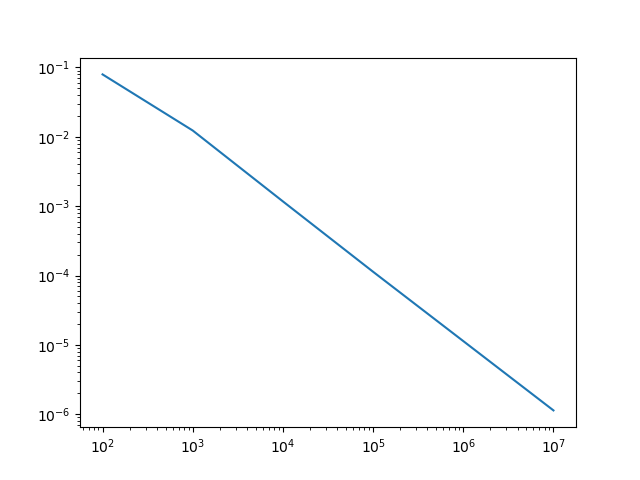
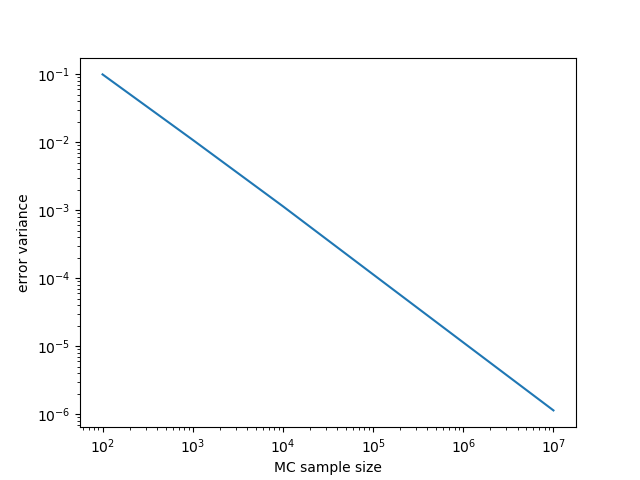
Finish HW3

diff --git a/hw3/h3_sol.tex b/hw3/h3_sol.tex
@@ -17,6 +17,11 @@
 \usepackage[noabbrev]{cleveref}
 \usepackage{graphicx}
 \usepackage{listings}
+\lstset{language=Python,
+  frame=single,
+  breaklines=true,
+  captionpos=b
+}
 
 \newcommand*{\E}{\mathbb{E}}
 \newcommand*{\EV}[1]{\E\left[{#1}\right]}
@@ -56,23 +61,33 @@
       \mathcal{N}\left(0, \frac{\sigma_g^2}{N}\right) \]
 
     \[ \sigma_g^2 = \EV{g^2} - \EV{g}^2 = \EV{\left( g - \EV{g} \right)^2}\]
-    sample variance:
+    Since the variance is not known, I fall back to the sample variance:
     \[ \hat{\sigma_g}^2 = \frac{1}{N - 1} \sum_{i=1}^N \left( \bar{g_i}  -
         \frac{\sum^N_{j=1}  \bar{g}_j}{N} \right)^2 \]
 
-    So for $f$ the variance of its approximation $\bar{f}$ can be computed as
+    For $f$ the variance of its approximation $\bar{f}$ can be computed as
     \[ \Var{\bar{f}} = e^{-2rT} \Var{\bar{g}}\]
     With the central limit theorem the error $\epsilon_N$ tends in distribution
     to:
     \[ \sqrt{N} \epsilon_N \rightharpoonup \mathcal{N}\left( 0, e^{-2rT} \hat{\sigma_g}^2 \right)\]
 
+    In \cref{fig:error_var} the variance of the error is plotted against the
+    Monte Carlo sample size. A 
+
+    The price computed with the biggest sample size of $N = \num{e7}$ is
+    \[ f(0, S_0) = \num{2.32} \]
+
+    The code can be found in the code appendix in listing~\ref{lstex1a}.
+
   \item
-    Compute the sensitivity
+    The sensitivity computed via the following method
     \[ \Delta \equiv \frac{\partial{}f(0,s)}{\partial{}s} \approx
       \frac{f(0,s+\Delta{}s) - f(0,s)}{\Delta{}s}\]
+    is plotted in \cref{fig:delta}.
+    The code can be found again in the code appendix in listing~\ref{lstex1b}.
 
-    Plotted in \cref{fig:delta}.
-    Better methods maybe adaptive?
+    A better method may be to use the Black-Scholes equation and analyze the
+    dependency of the solution on the start value in that PDE.
 
 \begin{figure}[h]
     \begin{minipage}[b]{.5\linewidth}
@@ -84,7 +99,7 @@
     \begin{minipage}[b]{.5\linewidth}
       \centering
       \includegraphics[width=\linewidth]{delta_f.png}
-      \caption{Delta}
+      \caption{Sensitivity}
       \label{fig:delta}
     \end{minipage}
 \end{figure}
@@ -124,13 +139,14 @@
   &=& e^{-\alpha t} \left( Y_0 + \left(e^{\alpha t}-1\right)\left(-2
       + \frac{0.4}{\sqrt{\alpha}}\sqrt{1-\rho^2}\right) + \int_0^t e^{\alpha s} 0.4 \sqrt{\alpha} \dW(s)\right)
     \end{IEEEeqnarray*}
-    For the expected value of $Y(t)$ I obtain:
+    Using the fact, that the expected value of the It\^{o} integral is 0, I obtain
+    the following for the expected value of $Y(t)$:
     \[ \EV{Y(t)} = e^{-\alpha t}\left(  \EV{Y_0} + \left( e^{\alpha t} -1 \right)
       \left( -2 + \frac{0.4}{\sqrt{\alpha}}\sqrt{1-\rho^2}\right)\right)
       \underset{t\rightarrow\infty}{\longrightarrow} -2 + \frac{0.4}{\sqrt{\alpha}}\sqrt{1-\rho^2}\]
-    For the variance, with $\left( e^{\alpha t} - 1 \right)\left( -2 +
-      \frac{0.4}{\sqrt{\alpha}}\sqrt{1-\rho^2} \right) = b$:
-
+    As a shorthand I use $b=\left( e^{\alpha t} - 1 \right)\left( -2 +
+      \frac{0.4}{\sqrt{\alpha}}\sqrt{1-\rho^2} \right)$ going forward.
+    To compute the variance I use the It\^{o} isometry:
     \begin{IEEEeqnarray*}{rCl}
       \Var{Y(t)} &=& \EV{Y(t)^2} - \EV{Y(t)}^2 \\
       &=& e^{-2\alpha t} \left(\EV{Y_0^2} + b^2 + \int_0^t e^{2\alpha s} 0.16
@@ -140,6 +156,7 @@
           1\right)\right) \\
       &\underset{t\rightarrow\infty}{\longrightarrow}& 0.08
     \end{IEEEeqnarray*}
+    So we see, that the variance is independent of all parameters.
 
   \item
     \[\dX = -\alpha X(t)\dt + \sqrt{\alpha} \dW(t)  \]
@@ -163,14 +180,17 @@
       \underset{t\rightarrow\infty}{\longrightarrow} \frac{1}{2}
     \end{IEEEeqnarray*}
 
-    \item Forward Euler approximation
+    \item The Forward Euler approximation for this equation is
       \[\Xb_n = X_0 + \sum_{i=0}^{n-1} -\alpha \Xb_i (t_{i+1} - t_i) +
         \sqrt{\alpha} (W_{i+1} - W_{i})  \]
-      \[\Xb_0 = X_0\]
+      Or in iterative form
       \[\Xb_i = \Xb_{i-1} - \alpha \Xb_{i-1} (t_i - t_{i-1}) + \sqrt{\alpha}
         (W_i - W_{i-1}) = \Xb_{i-1}(1-\alpha\Dt) + \sqrt{\alpha} \DW_i \]
+      Using this second form, it is easy to compute the expected value
       \[\EV{\Xb_i} = \EV{\Xb_{i-1}} (1 - \alpha \Dt) = \EV{X_0} (1-\alpha\Dt)^i
       \underset{i\rightarrow\infty}\longrightarrow 0 \]
+    To compute the variance we use $\EV{\DW_i}=0$ and $\EV{\DW_i^2}=\Dt$ and the
+    geometric series
     \begin{IEEEeqnarray*}{rCl}
       \Var{\Xb_i} &=& \EV{\Xb_i^2} - \EV{\Xb_i}^2 \\
       &=& \EV{\Xb^2_{i-1}(1-\alpha\Dt)^2 + 2 \Xb_{i-1}(1-\alpha\Dt) \sqrt{\alpha}
@@ -186,9 +206,10 @@
     \frac{\alpha\Dt}{2\alpha\Dt-(\alpha\Dt)^2} = \frac{1}{2 - \alpha\Dt}\\
     \end{IEEEeqnarray*}
 
-    \item Backward Euler approximation
+    \item The Backward Euler approximation is
       \[\Xb_n = X_0 + \sum_{i=0}^{n-1} -\alpha \Xb_{i+1} (t_{i+1} - t_i)
         + \sqrt{\alpha} (W_{i+1} - W_{i}) \]
+      and in iterative form
       \begin{IEEEeqnarray*}{rCl}
         \Xb_i &=& \Xb_{i-1} - \alpha \Xb_i (t_i - t_{i-1}) + \sqrt{\alpha}
         (W_i - W_{i-1}) \\
@@ -221,8 +242,11 @@
       &=& \frac{1}{2+\alpha\Dt}
     \end{IEEEeqnarray*}
 
-    \item Interpretation:
-      Seems like variance is better for forward Euler.
+    \item Both approximations lead to the same expected value, but differ in the
+      variance.
+      In the limit $\Dt \rightarrow 0$ the variance of both approximations
+      converge to the variance of the explicit solution.
+      The forward Euler approximation seems a bit better, due to the smaller variance.
   \end{enumerate}
 
   \item
@@ -258,31 +282,36 @@
   where $\Phi$ is the CDF of the normal distribution.
   So for the confidence interval to be \num{0.05} wide, the following sample
   size is needed
-  \[ n = \left(2\frac{1.96 \hat{\sigma}}{0.05}\right)^2 \approx \SI{543}{\kilo} \]
+  \[ n = \left(2\frac{1.96 \hat{\sigma}}{0.05}\right)^2 \approx 543\text{k} \]
 
   Since $2 \times n \times timesteps$ normally distributed random variables are
   needed, for \num{e4} timesteps this corresponds to approximately 10 billion
   random variables.
-  It took about 10 minutes on my laptop for \SI{500}{\kilo} samples and \num{e4}
+  It took about 10 minutes on my laptop for 500$k$ samples and \num{e4}
   time steps.
 
   To arrive an accuracy of $TOL=\num{5e-3}$, which corresponds to an increase of
   accuracy by a factor of 10, a factor of 100 times more samples would be needed.
-  Assuming the machine has enough memory and the computational time scales
-  lineary with the number of sampled random variables, roughly \SI{17}{\hour}
-  would be needed for this accuracy.
+  Assuming that the machine has enough memory and that the computational time scales
+  linearity with the number of sampled random variables, roughly \SI{17}{\hour}
+  would be needed to obtain this accuracy.
     
 \end{enumerate}
 
 \end{enumerate}
 
-% \section{Code Appendix}
+\section*{Code Appendix}
 
-% All code can be found online at
-% \url{https://github.com/bschwb/cmsde/tree/master/hw3}
+All code can be found online at
+\url{https://github.com/bschwb/cmsde/tree/master/hw3}
 
-% \begin{listings}
-%   \lstinputlisting{exercise2.py}
-% \end{listings}
+\lstset{caption={Code for 1a)}, label=lstex1a}
+\lstinputlisting{exercise1a.py}
+
+\lstset{caption={Code for 1b)}, label=lstex1b}
+\lstinputlisting{exercise1b.py}
+
+\lstset{caption={Code for 2)}, label=lstex2}
+\lstinputlisting{exercise2.py}
 
 \end{document}

diff --git a/hw3/exercise1a.py b/hw3/exercise1a.py
@@ -3,7 +3,6 @@ from math import sqrt, exp
 import numpy as np
 import matplotlib.pyplot as plt
 
-
 T = 1/2
 S_0 = 35
 K = 35
@@ -25,7 +24,9 @@ for i, n_samples in enumerate(samples_sequence):
     sample_variance_f[i] = exp(-2*r*T) * 1/(n_samples - 1) * sum((g - ev_g)**2)
     error_variance[i] = sample_variance_f[i] / n_samples
 
-# plt.semilogx(samples_sequence, f)
+print('f =', f[-1])
 plt.loglog(samples_sequence, error_variance)
+plt.ylabel('error variance')
+plt.xlabel('MC sample size')
 plt.savefig('error_var.png')
 plt.show()

diff --git a/hw3/exercise1b.py b/hw3/exercise1b.py
@@ -5,7 +5,6 @@ import matplotlib.pyplot as plt
 
 
 T = 1/2
-# S_0 = 35
 K = 35
 
 r = 0.04
@@ -28,5 +27,7 @@ for i, S_0 in enumerate(start_vals):
     f[i] = exp(-r * T) * ev_g
 
 plt.plot(start_vals, f)
+plt.xlabel('start value $S_0$')
+plt.ylabel('sensitivity $\Delta f$')
 plt.savefig('delta_f.png')
 plt.show()
